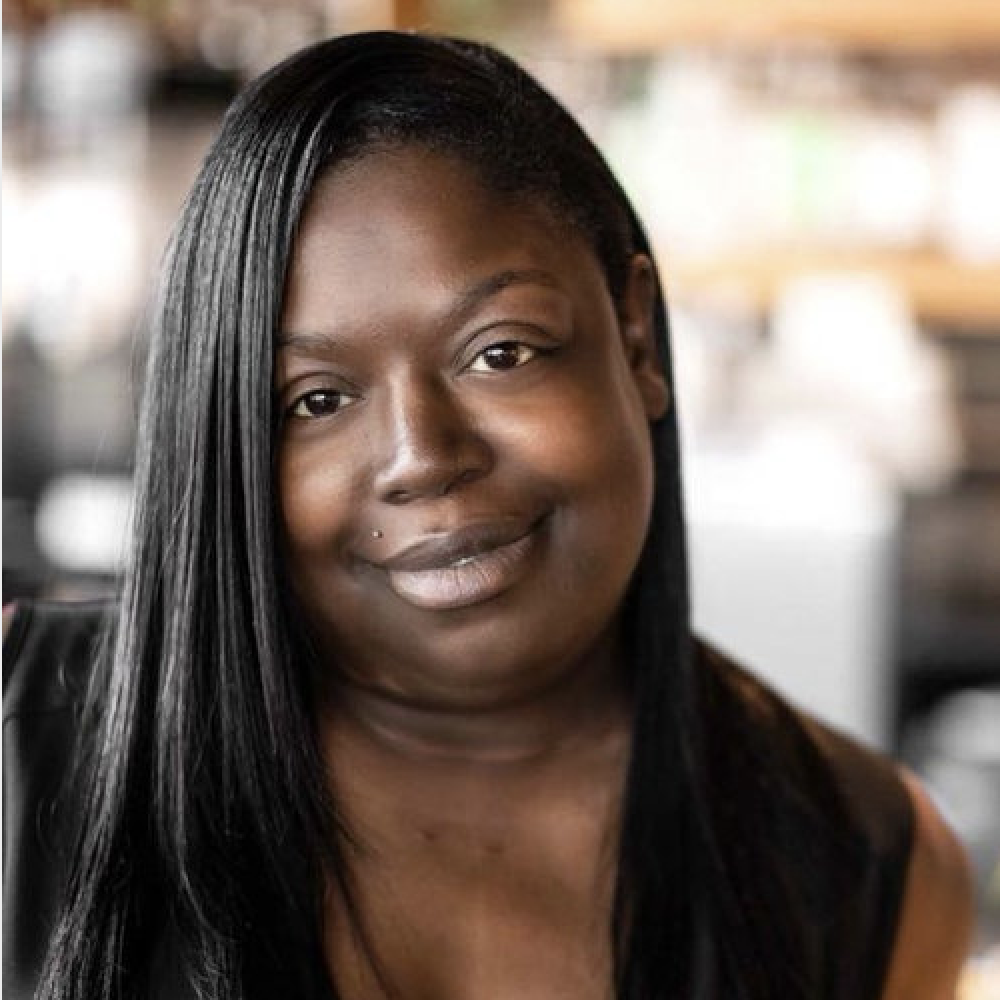
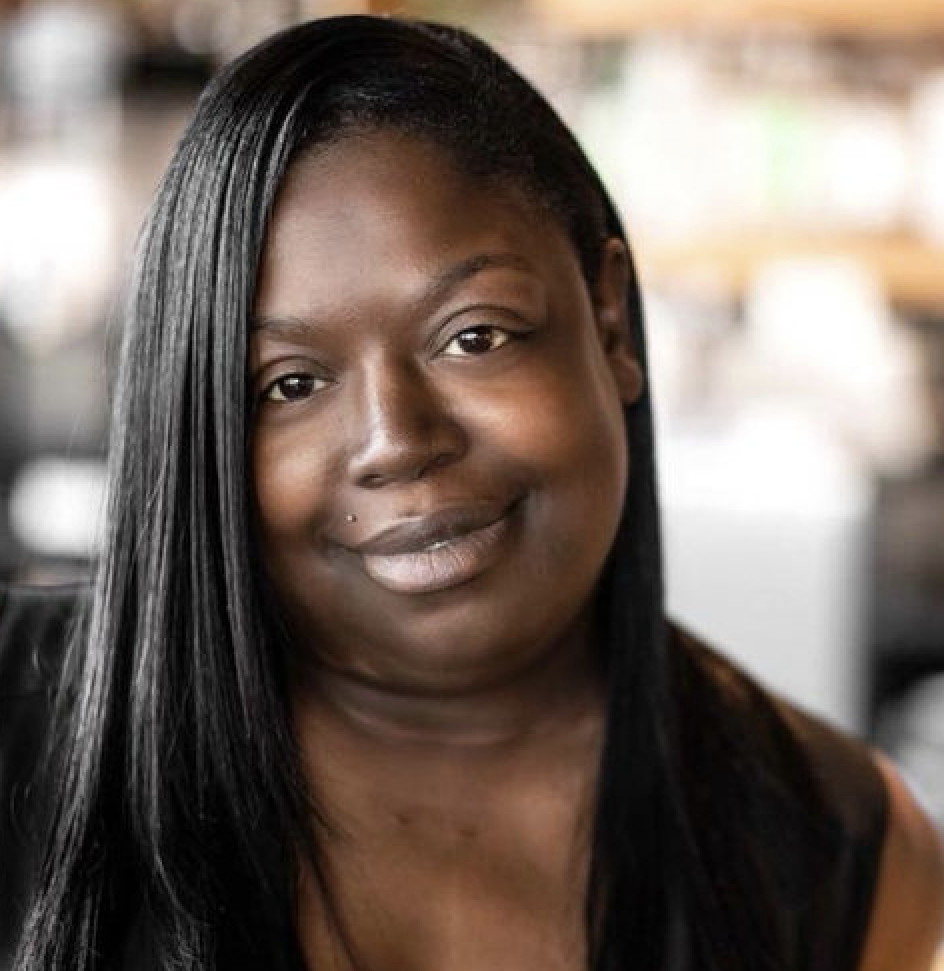
Images fix and post edit

diff --git a/_posts/2021-02-25-our-work-is-about-healing.md b/_posts/2021-02-25-our-work-is-about-healing.md
@@ -1,15 +1,15 @@
 ---
 layout: page
 title:  Our work is about healing
-subheadline: Lead interviewer Racquel Henderson describes the work
+subheadline: Lead interviewer Racquel Henderson describes her work
 date:   2021-02-25 08:48
-meta_teaser: 
+meta_teaser: Interviewing young people and adults
 teaser: "Our interviews are about you discovering your power, which is about owning your life, living in your truth, and being transparent. And it is ultimately about allowing all of that to lead you to your purpose."
 header:
   image_fullwidth: lex-shadows.jpg
   caption: Artwork by Odera Igbokwe
   caption_url: https://www.odera.net/
-thumbnail: lex-shadows-thumb.jpg
+thumbnail: team-racquel-henderson-sq.png
 categories: [How we work]
 tags: [Interviews, Healing]
 author: racquel-henderson
